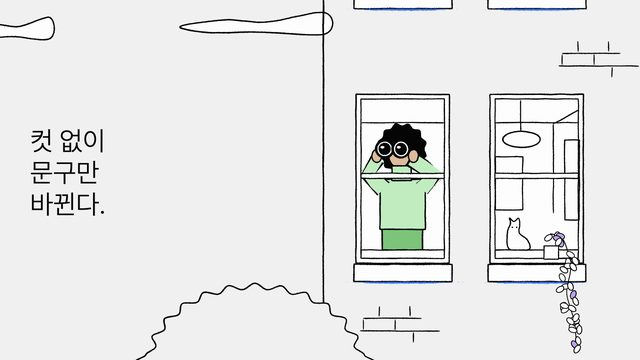
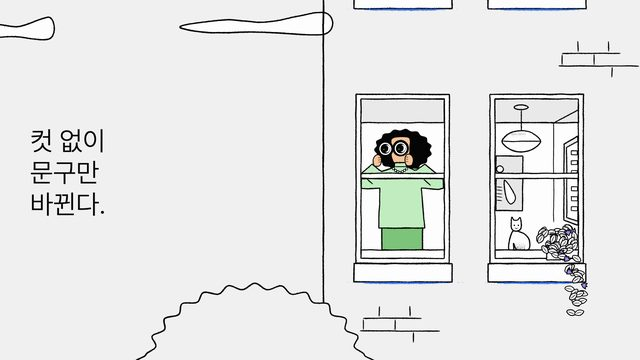
feat: 창가 장면의 인물·방·화분·고양이를 원본 형태로 다시 그림 (#10)
dark-eyes-reveal의 밝은 장면은 구도만 맞고 안의 그림은 상자와 타원이었다. 원본 2.5배 크롭에서 형태를 읽어 다시 그렸다.

- 인물: 팔을 든 동안 소매가 창 양끝까지 뻗고 창살이 그 앞을 지나는 스웨터 실루엣, 가로로 넓은 곱슬머리, 목걸이, 렌즈를 아래에서 쥔 손. 팔을 내리면 스웨터가 소매 달린 종 모양 한 덩어리가 된다.
- 쌍안경 렌즈를 검은 통·흰 테·어두운 유리와 초승달 반사로 나눴다. 기준선의 흰 고리는 인형 눈처럼 보였다.
- 방: 윗창의 회색 블라인드, 렌즈 모양 전등과 천장 고리, 오른쪽 벽의 선반, 왼쪽 벽의 액자. 고양이는 머리와 몸을 나눠 그렸다.
- 화분: 타원 대신 중심선이 있는 뾰족한 잎 66장과 보라 꽃이 창턱을 넘어 흘러내린다.
- 창틀 선을 3~3.4px에서 2.5~2.8px로 줄였다. 거친 가장자리가 들어간 뒤로 같은 수치가 원본보다 굵게 보였다.

Claude-Session: https://claude.ai/code/session_01SxpfC35DvvVg9RbvPHCrGA

diff --git a/IBM/scenes/spot/dark-eyes-reveal.html b/IBM/scenes/spot/dark-eyes-reveal.html
@@ -7,7 +7,7 @@
 <script src="../../kit/ink.js"></script>
 <script>
 /* 검은 화면에 흰 카피와 초록 눈 한 쌍이 떠서 좌우를 살피고 깜빡이다가, 눈이 작아지는 순간 밝은 화면으로 컷하면 그 눈은 건물 창가에서 쌍안경을 든 사람이었다. 카피는 셋째 줄이 붙고 한 번 바뀌며, 끝에 쌍안경을 내린다. 전달하는 생각: 누군가는 이미 지켜보고 있다.
-   Motion notes: the only black (#000) shot in the set, 3.33 s, white copy. Eyes are 283 x 124 almonds 468 px apart; only the irises move, on twos, and a look is a jump held 0.5-0.6 s: centre, 85 px left, up 27 px, down-right (46, 26). A blink is one 2-frame hold of total black, with one half-open 2-frame pose after the first. The reveal is a match cut on a zoom: over the last 5 drawings the pair shrinks to 0.9, 0.8, 0.65, 0.46 toward (1193, 438), hard cut, and the lit scene continues the pull-back on ones from 1.98x, settling exponentially (tau 0.16 s, still after 0.63 s) so the eyes land on the binocular lenses. At the cut the two existing copy lines slide up 59 px to make room and the third arrives from below. Copy swap at 6.33 s arrives a line every 4 frames. In the window only small things move, on twos: head and binoculars shift 8 px to scan, the cat's ears flick, binoculars come down at 9.5 s and the pose holds to the end. */
+   Motion notes: the only black (#000) shot in the set, 3.33 s, white copy. Eyes are 283 x 124 almonds 468 px apart; only the irises move, on twos, and a look is a jump held 0.5-0.6 s: centre, 85 px left, up 27 px, down-right (46, 26). A blink is one 2-frame hold of total black, with one half-open 2-frame pose after the first. The reveal is a match cut on a zoom: over the last 5 drawings the pair shrinks to 0.9, 0.8, 0.65, 0.46 toward (1193, 438), hard cut, and the lit scene continues the pull-back on ones from 1.98x, settling exponentially (tau 0.16 s, still after 0.63 s) so the eyes land on the binocular lenses. At the cut the two existing copy lines slide up 59 px to make room and the third arrives from below. Copy swap at 6.33 s arrives a line every 4 frames. In the window only small things move, on twos (shapes there are traced from a 2.5x crop of the reference: sleeves run out to the window's edges while the arms are up, the lower sash rail crosses in front of the figure): head and binoculars shift 8 px to scan, the cat's ears flick, binoculars come down at 9.5 s and the pose holds to the end. */
 const { prog, kf, lerp, rng, clamp } = MG;
 const C = IB.C, GREEN = '#4ca757', SKIRT = '#7cc47a';
 const DARK = ['어둠 속에서 먼저', '두 줄이 뜬다.'], LIT = ['어둠 속에서 먼저', '두 줄이 뜬다.', '셋째 줄이 붙고'], SWAP = ['컷 없이', '문구만', '바뀐다.'];
@@ -40,73 +40,107 @@ function eye(ctx, cx, cy, s, dx, dy, lid) {
 }
 
 function windowFrame(ctx, x, seed) {
-  IB.box(ctx, x, 283, 280, 507, { fill: C.paper, w: 3, seed });
+  IB.box(ctx, x, 283, 280, 507, { fill: C.paper, w: 2.8, seed });
   IB.box(ctx, x + 15, 297, 250, 478, { fill: C.paper, w: 2.5, seed: seed + 1 });
-  IB.seg(ctx, x + 15, 368, x + 265, 368, { w: 2.5, seed: seed + 2 });
+  IB.box(ctx, x + 15, 297, 250, 71, { fill: '#e9e9e9', w: 2.5, seed: seed + 2 });      // the upper pane is a drawn blind: flat grey
 }
 function sashAndSill(ctx, x, seed) {
-  IB.box(ctx, x + 15, 520, 250, 15, { fill: C.paper, w: 2.5, seed: seed + 3 });      // the lower sash rail passes in front of whoever is inside
+  IB.box(ctx, x + 15, 520, 250, 15, { fill: C.paper, w: 2.5, seed: seed + 3 });        // the lower sash rail passes in front of whoever is inside
   IB.box(ctx, x + 15, 750, 250, 25, { fill: C.paper, w: 2.5, seed: seed + 4 });
-  IB.box(ctx, x - 6, 793, 294, 52, { fill: C.paper, w: 3, seed: seed + 5 });
-  IB.smear(ctx, x + 140, 847, 270, { h: 5, seed: seed + 6 });
+  IB.box(ctx, x - 6, 791, 294, 55, { fill: C.paper, w: 2.8, seed: seed + 5 });
+  IB.smear(ctx, x + 140, 848, 270, { h: 5, seed: seed + 6 });
+}
+
+/* A binocular lens seen head-on: black barrel, white ring, dark glass with a white crescent on the side the light comes from. */
+function lens(ctx, x, y, r, seed, glint = 0) {
+  IB.oval(ctx, x, y, r, r, { fill: C.ink, w: 2.4, seed, n: 16 });
+  IB.oval(ctx, x, y, r * 0.8, r * 0.8, { fill: C.paper, w: 0, n: 16 });
+  IB.oval(ctx, x, y, r * 0.64, r * 0.64, { fill: C.ink, w: 0, n: 14 });
+  IB.oval(ctx, x + r * 0.2 + glint, y, r * 0.4, r * 0.5, { fill: C.paper, w: 0, n: 12 });
+  IB.oval(ctx, x - r * 0.02 + glint, y - r * 0.02, r * 0.4, r * 0.46, { fill: C.ink, w: 0, n: 12 });
+  IB.oval(ctx, x - r * 0.2 + glint * 0.5, y + r * 0.1, r * 0.1, r * 0.07, { fill: GREEN, w: 0, n: 6 });
 }
 
 function watcher(ctx, t) {
   const down = t >= 9.5;
   const scan = down ? 0 : held([[110, -8], [134, 7], [180, -8], [200, 0]], IB.frame(t), [0, 0])[1];   // 24 fps frames: 4.6, 5.6, 7.5, 8.3 s
-  IB.box(ctx, 1147, 686, 121, 64, { fill: SKIRT, w: 3, seed: 300 });
-  IB.box(ctx, 1140, 538, 136, 150, { fill: C.mint, w: 3, seed: 301 });
-  // curly hair, face, collar
-  const hair = []; for (let i = 0; i < 24; i++) { const a = (i / 24) * Math.PI * 2, r = (i % 2 ? 78 : 69) * (Math.sin(a) > 0.3 ? 0.95 : 1); hair.push([1206 + scan * 0.5 + Math.cos(a) * r * 0.95, 448 + Math.sin(a) * r]); }
-  IB.ink(ctx, hair, { closed: true, fill: C.ink, w: 3, seed: 302 });
-  IB.oval(ctx, 1198 + scan, 462, 33, 42, { fill: C.skin[1], w: 3, seed: 303, n: 12 });
-  IB.box(ctx, 1176, 498, 58, 44, { fill: C.mint, w: 3, seed: 304 });
-  const arm = (pts, seed) => IB.tube(ctx, pts, { w: 44, edge: 3, fill: C.mint, seed });
-  const lens = (x, y, r, seed) => { IB.oval(ctx, x, y, r, r, { fill: C.ink, w: 3, seed, n: 14 }); IB.oval(ctx, x, y, r * 0.74, r * 0.74, { w: 2.6, color: C.paper, seed: seed + 50, n: 14 }); IB.oval(ctx, x - r * 0.25 + scan * 0.6, y - r * 0.2, r * 0.22, r * 0.16, { fill: C.paper, w: 0, n: 8 }); };
+  // below the rail: skirt, then the sweater body with its sleeves running out to the window's edges while the arms are up
+  IB.box(ctx, 1146, 684, 122, 66, { fill: SKIRT, w: 2.5, seed: 300 });
+  // arms down: the sweater is one bell with a sleeve hanging on each side
+  const body = down ? [[1142, 532], [1268, 532], [1316, 600], [1330, 672], [1300, 688], [1278, 640], [1274, 684], [1136, 684], [1132, 640], [1110, 688], [1080, 672], [1094, 600]] : [[1084, 536], [1330, 536], [1330, 564], [1316, 568], [1264, 564], [1274, 684], [1136, 684], [1140, 564], [1104, 566], [1084, 565]];
+  IB.ink(ctx, body, { closed: true, smooth: down, fill: C.mint, w: 2.5, seed: 301 });
+  if (!down) { IB.seg(ctx, 1102, 538, 1118, 552, { w: 2.4, seed: 302 }); IB.seg(ctx, 1272, 538, 1292, 556, { w: 2.4, seed: 303 }); }
+  // curls: a scalloped mass wider than it is tall
+  const hair = []; for (let i = 0; i < 30; i++) { const a = (i / 30) * Math.PI * 2; hair.push([1209 + scan * 0.4 + Math.cos(a) * 86 * (i % 2 ? 1 : 0.92), 450 + Math.sin(a) * 63 * (i % 2 ? 1 : 0.92)]); }
+  IB.ink(ctx, hair, { closed: true, fill: C.ink, w: 2, seed: 304 });
+  IB.ink(ctx, [[1172 + scan, 432], [1180 + scan, 412], [1226 + scan, 412], [1230 + scan, 442], [1226 + scan, 476], [1210 + scan, 496], [1190 + scan, 496], [1176 + scan, 476]], { closed: true, fill: C.skin[0], w: 2.4, seed: 305 });
+  // above the rail: turtleneck, shoulders, and (arms up) the forearms rising from elbows at the window's edges to the hands
+  const top = down ? [[1128, 522], [1172, 505], [1184, 500], [1184, 488], [1216, 488], [1220, 500], [1242, 506], [1286, 522]] : [[1084, 521], [1116, 492], [1138, 510], [1145, 514], [1172, 505], [1184, 500], [1184, 488], [1216, 488], [1220, 500], [1242, 510], [1248, 510], [1274, 492], [1310, 521]];
+  IB.ink(ctx, top, { closed: true, smooth: false, fill: C.mint, w: 2.5, seed: 306 });
+  IB.seg(ctx, 1184, 500, 1220, 500, { w: 2, seed: 307 });
+  for (let i = 0; i < 7; i++) { const u = i / 6; IB.oval(ctx, 1180 + u * 40, 506 + Math.sin(u * Math.PI) * 11, 3.4, 3.4, { fill: C.paper, w: 1.6, seed: 308 + i, n: 6 }); }   // necklace
+  const hand = (x, y, flip, seed) => { ctx.save(); ctx.translate(x, y); ctx.scale(flip * 0.78, 0.78); IB.ink(ctx, [[-14, 18], [-17, -4], [-8, -20], [4, -22], [13, -10], [12, 12], [2, 22]], { closed: true, fill: C.skin[0], w: 2.4, seed }); for (const yy of [-10, -2, 6]) IB.seg(ctx, 2, yy, 12, yy - 2, { w: 1.6, seed: seed + 5 + yy }); ctx.restore(); };
   if (!down) {
-    arm([[1150, 566], [1104, 524], [1132 + scan, 478]], 310);
-    arm([[1266, 566], [1306, 524], [1236 + scan, 478]], 311);
-    IB.oval(ctx, 1130 + scan, 468, 15, 20, { fill: C.skin[1], w: 3, seed: 312, n: 8 });
-    IB.oval(ctx, 1240 + scan, 468, 15, 20, { fill: C.skin[1], w: 3, seed: 313, n: 8 });
-    lens(1154 + scan, 447, 27, 314);
-    lens(1203 + scan, 447, 27, 315);
+    lens(ctx, 1156 + scan, 446, 23, 314, scan * 0.25);
+    lens(ctx, 1202 + scan, 445, 23, 315, scan * 0.25);
+    hand(1133 + scan, 482, 1, 316);
+    hand(1226 + scan, 480, -1, 317);
   } else {
     ctx.fillStyle = C.ink;
-    for (const x of [1186, 1211]) { ctx.beginPath(); ctx.arc(x, 456, 4, 0, 7); ctx.fill(); }
-    IB.ink(ctx, [[1190, 480], [1199, 484], [1208, 480]], { w: 2.5, seed: 320 });
-    arm([[1150, 566], [1118, 640], [1176, 628]], 321);
-    arm([[1266, 566], [1296, 640], [1236, 628]], 322);
-    lens(1184, 618, 23, 323);
-    lens(1228, 618, 23, 324);
-    IB.oval(ctx, 1160, 628, 14, 17, { fill: C.skin[1], w: 3, seed: 325, n: 8 });
-    IB.oval(ctx, 1252, 628, 14, 17, { fill: C.skin[1], w: 3, seed: 326, n: 8 });
+    for (const x of [1188, 1212]) { ctx.beginPath(); ctx.arc(x, 452, 3.6, 0, 7); ctx.fill(); }
+    IB.ink(ctx, [[1178, 440], [1188, 436], [1196, 440]], { w: 2.2, seed: 318 });
+    IB.ink(ctx, [[1204, 440], [1212, 436], [1222, 440]], { w: 2.2, seed: 319 });
+    IB.ink(ctx, [[1194, 478], [1200, 481], [1207, 478]], { w: 2.2, seed: 320 });
+    lens(ctx, 1186, 616, 22, 323);
+    lens(ctx, 1230, 616, 22, 324);
+    hand(1160, 628, 1, 325);
+    hand(1256, 628, -1, 326);
+    IB.ink(ctx, [[1118, 668], [1128, 640]], { w: 2.2, seed: 327 });
+    IB.ink(ctx, [[1292, 668], [1282, 640]], { w: 2.2, seed: 328 });
   }
 }
 
 function room(ctx, t) {
-  // lamp, picture, the room's far corner
-  IB.seg(ctx, 1562, 300, 1562, 396, { w: 2.5, seed: 400 });
-  IB.oval(ctx, 1565, 418, 56, 24, { fill: C.paper, w: 3, seed: 401, n: 12 });
-  IB.ink(ctx, [[1660, 372], [1735, 330]], { w: 2.5, seed: 402 });
-  IB.seg(ctx, 1660, 372, 1660, 640, { w: 2.5, seed: 403 });
-  IB.box(ctx, 1694, 420, 44, 240, { w: 2.5, seed: 404 });
-  IB.box(ctx, 1486, 470, 82, 160, { w: 2.5, seed: 405 });
+  // the far corner, a shelf unit on the right wall, a framed picture on the left
+  IB.seg(ctx, 1485, 368, 1662, 368, { w: 2.4, seed: 400 });
+  IB.seg(ctx, 1662, 368, 1734, 330, { w: 2.4, seed: 401 });
+  IB.seg(ctx, 1661, 368, 1661, 666, { w: 1.8, seed: 402 });
+  IB.ink(ctx, [[1692, 432], [1734, 408], [1734, 676], [1692, 660]], { closed: true, smooth: false, fill: '#e9e9e9', w: 2.6, seed: 403 });
+  IB.ink(ctx, [[1700, 442], [1734, 424], [1734, 664], [1700, 652]], { closed: true, smooth: false, fill: C.paper, w: 2.2, seed: 404 });
+  for (let i = 0; i < 6; i++) IB.box(ctx, 1714, 452 + i * 30 + (i > 2 ? 18 : 0), 18, 12, { w: 2, seed: 405 + i });
+  IB.box(ctx, 1488, 468, 80, 164, { fill: '#e6e6e6', w: 2.6, seed: 412 });
+  IB.oval(ctx, 1500, 508, 10, 10, { fill: C.paper, w: 2.2, seed: 413, n: 10 });
+  IB.ink(ctx, [[1514, 540], [1546, 590], [1532, 612], [1518, 590]], { closed: true, fill: C.paper, w: 2.2, seed: 414 });
+  for (let i = 0; i < 5; i++) IB.seg(ctx, 1490, 560 + i * 10, 1506, 562 + i * 10, { w: 1.8, seed: 415 + i });
+  // pendant lamp: ceiling rose, cord, a lens-shaped shade with a line across its widest point
+  IB.oval(ctx, 1564, 322, 21, 7, { fill: '#e9e9e9', w: 2.4, seed: 420, n: 12 });
+  IB.seg(ctx, 1564, 329, 1564, 392, { w: 2.2, seed: 421 });
+  IB.ink(ctx, [[1506, 424], [1530, 400], [1564, 392], [1598, 400], [1622, 424], [1598, 448], [1564, 456], [1530, 448]], { closed: true, fill: C.paper, w: 2.6, seed: 422 });
+  IB.seg(ctx, 1508, 424, 1620, 424, { w: 2.2, seed: 423 });
+  IB.shade(ctx, 1532, 400, 44, 12, { from: 'top', seed: 424, alpha: 0.16 });
   // cat on the sill: ears flick at 8.75 s, then it settles a step to the left
-  const tw = IB.twos(t), cx = 1556 - 46 * prog(tw, 9.75, 1.0), ear = tw >= 8.75 && tw < 9.25 ? 5 : 0;
-  IB.ink(ctx, [[cx - 28, 748], [cx - 34, 700], [cx - 24, 670], [cx - 27, 654 - ear], [cx - 14, 664], [cx, 654 - ear], [cx + 4, 674], [cx + 2, 700], [cx + 26, 720], [cx + 30, 748]], { closed: true, fill: C.paper, w: 2.8, seed: 410 });
+  const tw = IB.twos(t), cx = 1549 - 30 * prog(tw, 9.75, 1.0), ear = tw >= 8.75 && tw < 9.25 ? 5 : 0;
+  IB.ink(ctx, [[cx - 9, 692], [cx - 21, 720], [cx - 22, 749], [cx - 8, 749], [cx - 8, 730], [cx + 2, 749], [cx + 36, 749], [cx + 39, 722], [cx + 27, 704], [cx + 10, 696]], { closed: true, fill: C.paper, w: 2.4, seed: 430 });
+  IB.shade(ctx, cx - 4, 724, 30, 24, { from: 'bottom', seed: 431, alpha: 0.28 });
+  IB.ink(ctx, [[cx - 16, 674], [cx - 14, 652 - ear], [cx - 7, 661], [cx + 4, 660], [cx + 12, 652 - ear], [cx + 15, 674], [cx + 11, 688], [cx - 2, 693], [cx - 13, 688]], { closed: true, fill: C.paper, w: 2.4, seed: 432 });
   ctx.fillStyle = C.ink;
-  for (const x of [cx - 19, cx - 6]) { ctx.beginPath(); ctx.arc(x, 682, 2.2, 0, 7); ctx.fill(); }
+  for (const x of [cx - 6, cx + 6]) { ctx.beginPath(); ctx.arc(x, 676, 2, 0, 7); ctx.fill(); }
+  IB.ink(ctx, [[cx - 4, 683], [cx, 686], [cx + 4, 683]], { w: 1.6, seed: 433 });
 }
 function plant(ctx) {
-  const r = rng(31);
-  IB.box(ctx, 1632, 738, 44, 40, { fill: C.paper, w: 2.5, seed: 500 });
-  const vine = [[1650, 700], [1690, 720], [1712, 800], [1700, 880], [1722, 960], [1730, 1040]];
-  IB.ink(ctx, vine, { w: 2, seed: 501 });
-  for (let i = 0; i < 34; i++) {
-    const u = r(), k = Math.min(vine.length - 2, Math.floor(u * (vine.length - 1))), v = u * (vine.length - 1) - k;
-    const x = lerp(vine[k][0], vine[k + 1][0], v) + (r() - 0.5) * 70 * (1 - u * 0.6), y = lerp(vine[k][1], vine[k + 1][1], v) + (r() - 0.5) * 30;
-    ctx.save(); ctx.translate(x, y); ctx.rotate(r() * 6.3);
-    IB.oval(ctx, 0, 0, 13, 8, { fill: r() < 0.22 ? '#b9a2ee' : C.paper, w: 2, seed: 510 + i, n: 7 });
+  // a pot under a mound of pointed leaves that spills over the sill and trails down the wall, with a few purple blooms
+  const r = rng(31), leaves = [];
+  IB.box(ctx, 1640, 726, 42, 54, { fill: C.paper, w: 2.4, seed: 500 });
+  IB.shade(ctx, 1640, 726, 42, 26, { from: 'top', seed: 501, alpha: 0.4 });
+  for (let i = 0; i < 40; i++) { const a = r() * Math.PI * 2, d = Math.sqrt(r()); leaves.push([1672 + Math.cos(a) * 62 * d, 720 + Math.sin(a) * 46 * d, a + (r() - 0.5), i]); }
+  const trail = [[1700, 766], [1716, 800], [1732, 836], [1722, 870], [1740, 900], [1734, 934]];
+  for (let i = 0; i < 26; i++) { const u = r() * (trail.length - 1), k = Math.min(trail.length - 2, Math.floor(u)), v = u - k; leaves.push([lerp(trail[k][0], trail[k + 1][0], v) + (r() - 0.5) * 44, lerp(trail[k][1], trail[k + 1][1], v) + (r() - 0.5) * 16, Math.PI * (0.2 + r() * 0.6), 100 + i]); }
+  leaves.sort((p, q) => p[1] - q[1]);
+  for (const [x, y, a, i] of leaves) {
+    const bloom = i % 6 === 0;
+    ctx.save(); ctx.translate(x, y); ctx.rotate(a);
+    if (bloom) IB.ink(ctx, [[-7, -3], [-9, -12], [-3, -8], [0, -14], [3, -8], [9, -12], [7, -3], [0, 6]], { closed: true, smooth: false, fill: '#a08ae8', w: 2, seed: 520 + i });
+    else { IB.ink(ctx, [[0, -15], [8, -3], [5, 9], [0, 13], [-5, 9], [-8, -3]], { closed: true, fill: C.paper, w: 2, seed: 520 + i }); IB.seg(ctx, 0, -9, 0, 9, { w: 1.3, seed: 620 + i }); }
     ctx.restore();
   }
 }
